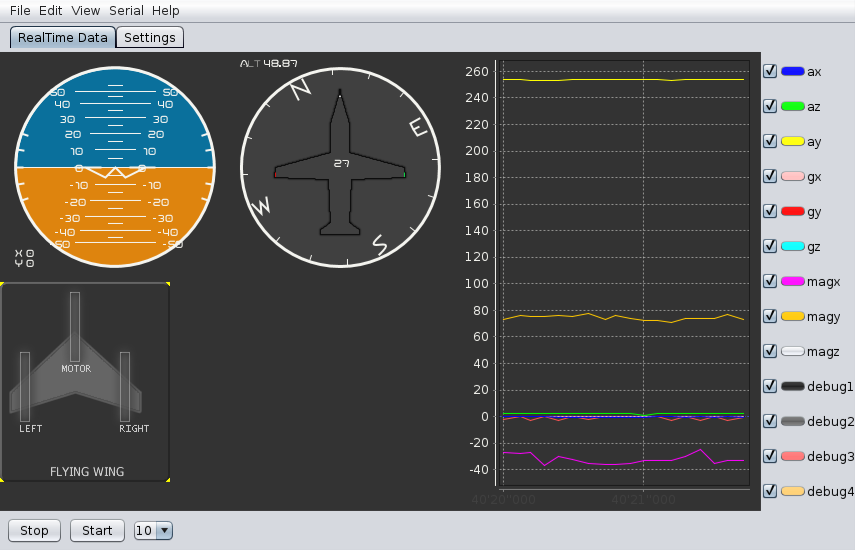
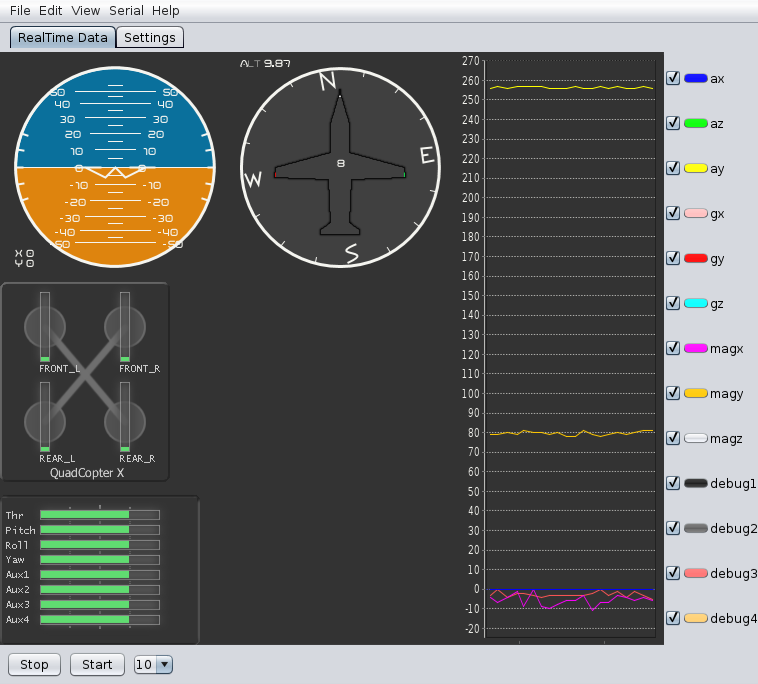
quadX (without gimbal)

diff --git a/gui/src/main/java/eu/kprod/gui/instrument/MwUAVPanel.java b/gui/src/main/java/eu/kprod/gui/instrument/MwUAVPanel.java
@@ -17,7 +17,6 @@ import java.awt.image.BufferedImage;
 import java.net.URL;
 
 import eu.kprod.gui.comp.StyleColor;
-import eu.kprod.msp.MSP;
 
 public  class MwUAVPanel extends MwInstrumentJPanel  {
 
@@ -25,8 +24,12 @@ public  class MwUAVPanel extends MwInstrumentJPanel  {
 
     double[] RCmotor = new double[8];
     static Image [] images = new Image[14];
-
-    protected int UAVTYPE=10;
+    
+    // bar w/h
+    final int xx = 8;
+    final int yy = 67;
+    
+    protected int UAVTYPE=3;
 
     {
        
@@ -95,32 +98,47 @@ public  class MwUAVPanel extends MwInstrumentJPanel  {
 
 
     void drawBarValue(Graphics2D g2d) {
-        final int startx = 41;
-        int starty = 16;
+       
 
-        // bar w/h
-        final int xx = 118;
-        final int yy = 7;
+      
 
         g2d.setStroke(new BasicStroke(1));
         
+        switch (UAVTYPE) {
+            case 3:
+                drawType3(g2d);
+                break;
+
+            default:
+                break;
+        }
+        
+
+
+    }
+    private void drawType3(Graphics2D g2d) {
+        
+        int [] startx = {41,121, 41,121};
+        int [] starty = {79, 79,169,169};
+        
         g2d.setPaint(StyleColor.greenBar);
-        for (int i = 0; i < RCmotor.length; i++) {
+        for (int i = 0; i < 4; i++) {
 
             int barvalue = new Double((RCmotor[i]/2000)*xx).intValue();
             bar = new GeneralPath(GeneralPath.WIND_EVEN_ODD);
-            bar.moveTo(startx, starty);
-            bar.lineTo(startx + barvalue, starty);
-            bar.lineTo(startx + barvalue, starty + yy);
-            bar.lineTo(startx, starty + yy);
+            bar.moveTo(startx[i], starty[i]);
+            bar.lineTo(startx[i], starty[i] - barvalue);
+            bar.lineTo(startx[i] + xx, starty[i] - barvalue);
+            bar.lineTo(startx[i] +xx , starty[i] );
             bar.closePath();
 
             g2d.fill(bar);
-            starty+=yy+8;
+         
 
         }
-
+        
     }
+
     @Override
     public void readNewValue(String name, Double value) {     
         RCmotor[Integer.parseInt(name.charAt(name.length()-1)+"")]=value;
